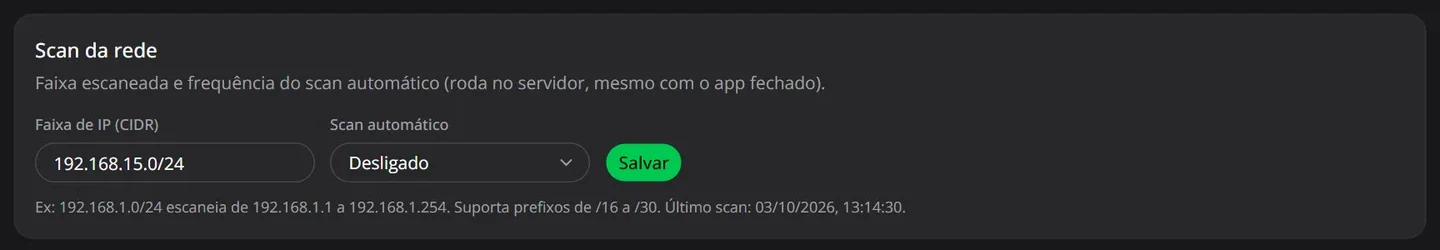
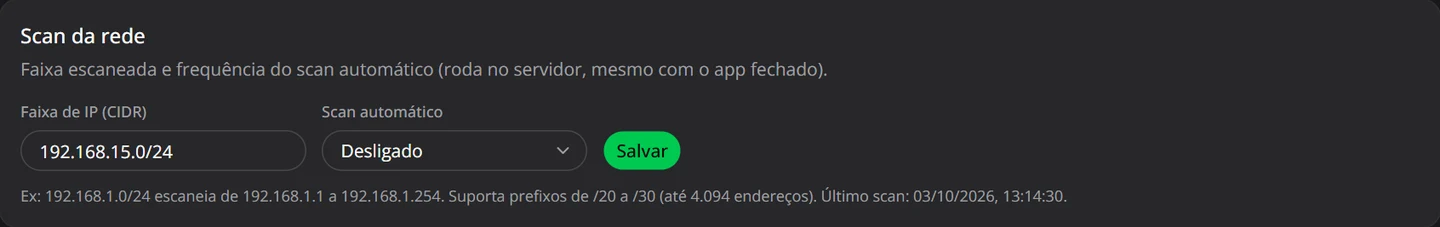
fix(site): navegação sem "#" no endereço e hash do instalador atualizado
- Links internos rolam até a seção sem deixar #ia, #ferramentas… na URL;
  links antigos com # ainda levam à seção e o endereço é limpo depois
- scroll-margin para as seções não ficarem sob o menu fixo
- SHA-256 do instalador recompilado com o limite /20 do scan
- Print do card de scan com o texto corrigido (/20 a /30)

diff --git a/site/index.html b/site/index.html
@@ -69,6 +69,7 @@
   .frame-bar span { margin-left: 12px; flex: 1; max-width: 340px; padding: 4px 12px; border-radius: 8px; background: #27272a; color: var(--muted); font: 12px var(--mono); text-align: left; }
 
   section { padding: 96px 0; }
+  section[id] { scroll-margin-top: 64px; }
   .eyebrow { color: var(--primary); font-weight: 600; font-size: 13px; letter-spacing: .12em; text-transform: uppercase; }
   h2 { font-size: clamp(28px, 4vw, 42px); line-height: 1.15; letter-spacing: -.02em; margin: 10px 0 14px; }
   .section-head { max-width: 680px; margin-bottom: 48px; }
@@ -539,10 +540,10 @@
     </div>
 
     <div class="config-shot reveal">
-      <img src="screens/scan-config.webp" width="1440" height="250" alt="Card Scan da rede: campo Faixa de IP (CIDR) com 192.168.15.0/24, seletor Scan automático e botão Salvar">
-      <span class="marker" style="left: 13%; top: 50%;">1</span>
-      <span class="marker" style="left: 33%; top: 50%;">2</span>
-      <span class="marker" style="left: 44.7%; top: 50%;">3</span>
+      <img src="screens/scan-config.webp" width="1440" height="227" alt="Card Scan da rede: campo Faixa de IP (CIDR) com 192.168.15.0/24, seletor Scan automático e botão Salvar">
+      <span class="marker" style="left: 12.6%; top: 48%;">1</span>
+      <span class="marker" style="left: 32.6%; top: 48%;">2</span>
+      <span class="marker" style="left: 44.6%; top: 48%;">3</span>
     </div>
 
     <div class="config-grid">
@@ -647,7 +648,7 @@
         <a class="btn btn-primary" href="https://github.com/douglaspiero/net-inventory-ia/releases/download/v0.1.0/NetInventory-Setup-0.1.0.exe"><svg class="icon"><use href="#i-windows"/></svg>Baixar grátis para Windows</a>
         <div class="file">
           <span>NetInventory-Setup-0.1.0.exe · 47 MB · <a href="https://github.com/douglaspiero/net-inventory-ia/releases" target="_blank" rel="noopener" style="color: var(--text);">todas as versões</a></span>
-          <span class="hash">SHA-256: a264e05676dc8ff98ae199d047de0272a646c94b4a2efb39e45a2f52adeeda7f</span>
+          <span class="hash">SHA-256: af198c21fa6b797496ee59ad1efea004676b951753ccfb2e181a7109854d9bff</span>
         </div>
       </div>
       <div class="req">
@@ -755,6 +756,26 @@
   show(0);
 
   document.getElementById("year").textContent = new Date().getFullYear();
+
+  // Links internos (#ia, #ferramentas…) rolam até a seção sem deixar o "#" no endereço.
+  document.addEventListener("click", (e) => {
+    const link = e.target.closest('a[href^="#"]');
+    if (!link || e.defaultPrevented || e.button !== 0 || e.metaKey || e.ctrlKey) return;
+    const id = link.getAttribute("href").slice(1);
+    const target = id ? document.getElementById(id) : null;
+    if (id && !target) return;
+    e.preventDefault();
+    if (target) target.scrollIntoView({ behavior: "smooth" });
+    else window.scrollTo({ top: 0, behavior: "smooth" });
+    history.replaceState(null, "", location.pathname + location.search);
+  });
+  // Quem chega por um link antigo com "#seção" vai para a seção e, depois, o endereço fica limpo.
+  if (location.hash) {
+    window.addEventListener("load", () => {
+      document.getElementById(location.hash.slice(1))?.scrollIntoView();
+      history.replaceState(null, "", location.pathname + location.search);
+    });
+  }
 
   // Link do LinkedIn do desenvolvedor: preencha aqui e os botões aparecem.
   const LINKEDIN_URL = "https://www.linkedin.com/in/douglaspiero/";
